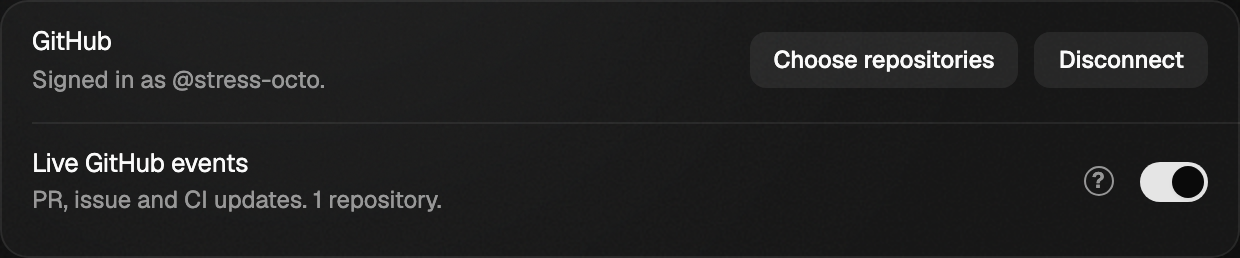
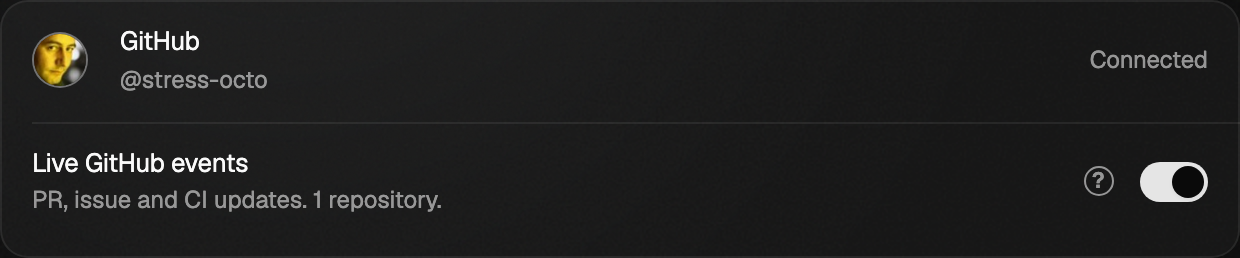
github-relay: retain final mainline integration evidence

Changed region(s): [[0.0, 0.124, 0.2758, 0.3721], [0.6129, 0.186, 0.9806, 0.2791]]

diff --git a/verification/desktop/evidence/github-live-events/README.md b/verification/desktop/evidence/github-live-events/README.md
@@ -1,8 +1,9 @@
 # GitHub live events in Settings
 
-Source reviewed: `9500b4b74d3d6a30cf06af1bf41a8a23d4c09c21`. A loopback GitHub provider supplies device sign-in
+Source reviewed: `46361a93bc9b421a8d50b64a95eef2b71721610b`. A loopback GitHub provider supplies device sign-in
 and App repository selection to a real gateway in an isolated development
-namespace. No real GitHub account is authorized and no agent turn is run by
+namespace. Mainline’s account-avatar and hover-action presentation is preserved.
+No real GitHub account is authorized and no agent turn is run by
 this check. The namespace is removed after shutdown.
 
 `github-live-events.mjs --channel bundled` passed in Chromium and WebKit. The
@@ -20,3 +21,10 @@ The [scripted gateway baseline](scripted-summary.md) also passed both engines.
 Real private App-token delivery is covered by provider fixtures, not a real
 private GitHub repository. Worker deployment version:
 `06df8c42-0291-4e9a-a894-ba48b7947df5` on the existing dev Worker and Free plan.
+
+The later `4a93a0775` platform-only correction fixes a misplaced composition
+guard found by Windows CI. Its local Cargo package-selection check passes;
+the hosted Windows rerun remains pending. These UI receipts name `46361a93b`.
+The broad desktop baseline remains failed on channel naming (#1129) and pane
+focus (#1130); it is not claimed green, and the remaining broad run was stopped
+after those confirmed failures. No GitHub setting or help-popup failure remains.

diff --git a/docs/state/services/github-webhooks/README.md b/docs/state/services/github-webhooks/README.md
@@ -5,7 +5,7 @@ kind: service
 status: implemented
 summary: Verified GitHub events reach each authorized user's private desktop inbox, with bounded offline catch-up.
 parent: nessa
-sourceRevision: "9500b4b74d3d6a30cf06af1bf41a8a23d4c09c21"
+sourceRevision: "4a93a077579d006210eff4707a3150299bde460c"
 sources:
   - packages/github-webhooks/src/composition/worker.ts
   - packages/github-webhooks/src/webhooks/infrastructure/http.ts
@@ -127,7 +127,7 @@ retention also ends that store's deduplication history.
 ## User and stage boundaries
 
 The expected user ID is compared with the token's GitHub-verified identity. Cedar
-uses current repository facts and OAuth scopes before a page is disclosed. An
+uses current repository facts, OAuth scopes and App installation facts before a page is disclosed. An
 installation can serve several authorized users; its owner is not a stand-in for
 all of them. A read already admitted under one verified snapshot can finish after
 a later permission change.

diff --git a/packages/github-webhooks/README.md b/packages/github-webhooks/README.md
@@ -194,7 +194,7 @@ compiled into Rust and bundled into the Worker.
 [`stage-deployments.json`](stage-deployments.json) selects each stage's Wrangler
 file. To enable a rollout stage, provision an independent **free** Worker, D1,
 SQLite Durable Object namespace and **separate GitHub App**, add its HTTPS origin,
-app slug and client ID to the public table, and add its Wrangler config path to
+app slug, numeric App ID and client ID to the public table, and add its Wrangler config path to
 the deployment table. Each config supplies its own `RELAY_STAGE`, D1 ID and Worker
 name; each deployment receives independent `GITHUB_WEBHOOK_SECRET` and
 `RELAY_TICKET_SECRET` encrypted bindings. Deploy with `pnpm run deploy STAGE`.

diff --git a/verification/desktop/evidence/github-live-events/scripted-summary.md b/verification/desktop/evidence/github-live-events/scripted-summary.md
@@ -9,4 +9,4 @@ Verdict: pass
 
 Relevant log lines:
 
-- console chromium: requestfailed: http://127.0.0.1:58066/browser/check net::ERR_ABORTED (aborted after a 204 response, #485) (harmless)
+- console chromium: requestfailed: http://127.0.0.1:62571/browser/check net::ERR_ABORTED (aborted after a 204 response, #485) (harmless)
